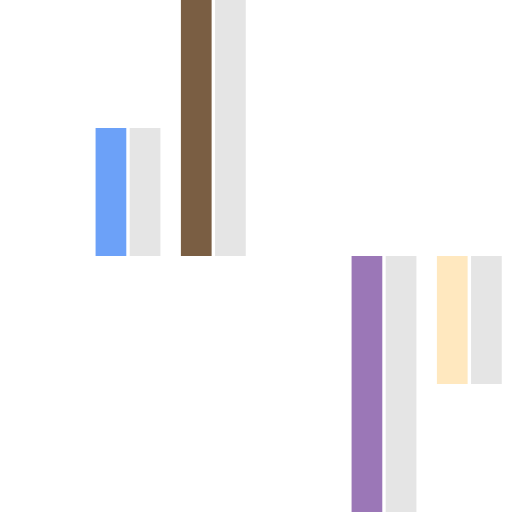
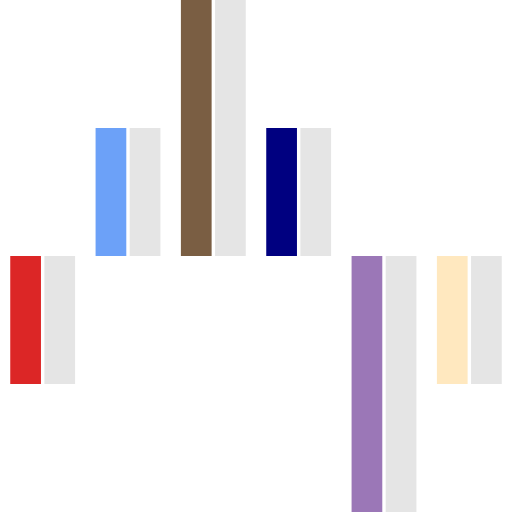
fix(utils): remove all instances of lookbehind (#41)

Changed region(s): [[0.5, 0.25, 0.6562, 0.5], [0.0, 0.5, 0.1562, 0.75]]

diff --git a/src/__tests__/parser.spec.ts b/src/__tests__/parser.spec.ts
@@ -7,7 +7,7 @@ const parser = new TailwindColorsParser(tailwindConfig)
 describe("Parser", () => {
   test.each`
     color                          | output
-    ${"transparent"}               | ${"rgb(0 0 0 / 0)"}
+    ${"transparent"}               | ${"transparent"}
     ${"black"}                     | ${"#000"}
     ${"slate-700"}                 | ${"#334155"}
     ${"main"}                      | ${"#5a65f6"}
@@ -21,10 +21,10 @@ describe("Parser", () => {
 describe("Validator is working with configured colors only (strict)", () => {
   test.each`
     color            | output   | status
-    ${"transparent"} | ${true}  | ${"valid"}
     ${"black"}       | ${true}  | ${"valid"}
     ${"yellow-50"}   | ${true}  | ${"valid"}
     ${"red-100"}     | ${true}  | ${"valid"}
+    ${"transparent"} | ${false} | ${"skipped"}
     ${"orange-90"}   | ${false} | ${"invalid"}
     ${"pink-250"}    | ${false} | ${"invalid"}
     ${"indigo-0"}    | ${false} | ${"invalid"}
@@ -41,29 +41,31 @@ describe("Validator is working (non-strict)", () => {
 
   test.each`
     color            | output   | status
-    ${"transparent"} | ${true}  | ${"valid"}
     ${"black"}       | ${true}  | ${"valid"}
+    ${"transparent"} | ${false} | ${"skipped"}
     ${""}            | ${false} | ${"invalid"}
   `("if `$color` is $status", ({ color, output }) => {
     expect(parser.isParsable(color)).toBe(output)
   })
 
   test.each`
-    value             | output   | status
-    ${"stone-50"}     | ${true}  | ${"be"}
-    ${"stone-50/30"}  | ${true}  | ${"be"}
-    ${"green-900"}    | ${true}  | ${"be"}
-    ${" "}            | ${false} | ${"not be"}
-    ${"bisque"}       | ${false} | ${"not be"}
-    ${"#c08240"}      | ${false} | ${"not be"}
-    ${"#c0824066"}    | ${false} | ${"not be"}
-    ${"emerald-"}     | ${false} | ${"not be"}
-    ${"purple-cyan"}  | ${false} | ${"not be"}
-    ${"slate-0"}      | ${false} | ${"not be"}
-    ${"#cyan-900"}    | ${false} | ${"not be"}
-    ${"#cyan-900/55"} | ${false} | ${"not be"}
-    ${"b69576"}       | ${false} | ${"not be"}
-    ${"b69576/"}      | ${false} | ${"not be"}
+    value              | output   | status
+    ${"stone-50"}      | ${true}  | ${"be"}
+    ${"stone-50/30"}   | ${true}  | ${"be"}
+    ${"green-900"}     | ${true}  | ${"be"}
+    ${" "}             | ${false} | ${"not be"}
+    ${"bisque"}        | ${false} | ${"not be"}
+    ${"#c08240"}       | ${false} | ${"not be"}
+    ${"#c0824066"}     | ${false} | ${"not be"}
+    ${"emerald-"}      | ${false} | ${"not be"}
+    ${"purple-cyan"}   | ${false} | ${"not be"}
+    ${"slate-0"}       | ${false} | ${"not be"}
+    ${"#cyan-900"}     | ${false} | ${"not be"}
+    ${"#cyan-900/55"}  | ${false} | ${"not be"}
+    ${"##cyan-900/55"} | ${false} | ${"not be"}
+    ${"b69576"}        | ${false} | ${"not be"}
+    ${"##b69576"}      | ${false} | ${"not be"}
+    ${"b69576/"}       | ${false} | ${"not be"}
   `("if `$value` should $status parsed", ({ value, output }) => {
     expect(parser.isParsable(value)).toBe(output)
   })

diff --git a/src/parser.ts b/src/parser.ts
@@ -34,18 +34,18 @@ class TailwindColorsParser {
       return value.map((v) => this.parse(v))
     }
 
+    if (!utils.isParsableString(value)) return value
+
     if (utils.hasValidAlpha(value)) {
       const [color, alpha] = value.split("/")
 
       return formatColor({
-        ...parseColor(this.colorPalette[color] ?? color),
+        ...parseColor(this.colorPalette[color.trim()] ?? color),
         alpha: Number.parseInt(alpha, 10) / 100,
       })
     }
 
-    return value === "transparent"
-      ? formatColor(parseColor(value))
-      : this.colorPalette[value] ?? value
+    return this.colorPalette[value.trim()] ?? formatColor(parseColor(value))
   }
 
   /**
@@ -59,8 +59,8 @@ class TailwindColorsParser {
     if (!value) return false
 
     if (!strict) {
-      // Since some colors are stored in arrays, assuming the values
-      // in the array are valid, the array itself is valid
+      // Since some colors are stored in arrays, assuming all values
+      // in the array are strings, the array itself is valid
       if (utils.isValidArray(value)) return true
 
       if (!utils.isParsableString(value)) return false
@@ -74,11 +74,15 @@ class TailwindColorsParser {
       }
 
       // Ignore hex and named colors without a valid alpha
-      return Object.hasOwn(this.colorPalette, value) || utils.shouldParse(value)
+      return (
+        Object.hasOwn(this.colorPalette, value) || utils.hasValidAlpha(value)
+      )
     }
 
     // Strictly from the specified config
-    return typeof value === "string" && Object.hasOwn(this.colorPalette, value)
+    return (
+      utils.isParsableString(value) && Object.hasOwn(this.colorPalette, value)
+    )
   }
 }
 

diff --git a/src/utils.ts b/src/utils.ts
@@ -2,18 +2,18 @@ import Colors from "color-name"
 
 import type { NamedColor } from "./types"
 
-const VALID_HEX = /#([\da-f]{6})([\da-f]{2})?(?!\/(?!\S))/i
-const VALID_TW_COLOR_CLASS = /(?<![#-]+)\b[a-z]+\b-\d{2,3}(?![\w-]+)/i
+const VALID_HEX = /^#([\da-f]{3}|[\da-f]{6})([\da-f]{2})?/i
+const VALID_TW_COLOR_CLASS = /^[a-z]+-\d{2,3}(?![\w-]+)/i
 const VALID_COLOR_FORM = `${VALID_HEX.source}|${VALID_TW_COLOR_CLASS.source}`
 const VALID_ALPHA = /\/(?=(\b([1-9]|[1-9]\d|100)\b))/i
-
-export const isValidArray = (value: unknown): value is string[] =>
-  Array.isArray(value) && value.every((v) => typeof v === "string")
 
 export const isParsableString = (value: unknown): value is string =>
   typeof value === "string" &&
   // No need to parse these as chart.js can readily accept it
-  !/rgba?|hsla?/i.test(value)
+  !/rgba?|hsla?|transparent/i.test(value)
+
+export const isValidArray = (value: unknown): value is string[] =>
+  Array.isArray(value) && value.every((v) => typeof v === "string")
 
 export const isHex = (value: string): boolean => VALID_HEX.test(value)
 export const isNamedColor = (value: string): value is NamedColor =>
@@ -27,6 +27,3 @@ export const hasValidAlpha = (value: string): boolean =>
   // TODO There should be room for improvement here
   (isNamedColor(value.split("/")[0]) && VALID_ALPHA.test(value)) || // named colors
   new RegExp(`(?:${VALID_COLOR_FORM})${VALID_ALPHA.source}`).test(value)
-
-export const shouldParse = (value: string): boolean =>
-  hasValidAlpha(value) || VALID_TW_COLOR_CLASS.test(value)

diff --git a/src/color.ts b/src/color.ts
@@ -1,7 +1,7 @@
 // Color utilities taken from the CSS framework tailwindcss, which is
 // Copyright (c) Tailwind Labs, Inc. (https://tailwindcss.com/)
 // and used under the terms of the MIT license
-// @see https://github.com/tailwindlabs/tailwindcss/blob/master/LICENSE
+// @see https://github.com/tailwindlabs/tailwindcss/blob/main/LICENSE
 
 import type { RecursiveKeyValuePair } from "tailwindcss/types/config"
 
@@ -15,7 +15,7 @@ import { isNamedColor } from "./utils"
 const HEX = /^#([\da-f]{2})([\da-f]{2})([\da-f]{2})([\da-f]{2})?$/i
 const SHORT_HEX = /^#([\da-f])([\da-f])([\da-f])([\da-f])?$/i
 
-// @see https://github.com/tailwindlabs/tailwindcss/blob/master/src/util/flattenColorPalette.js
+// @see https://github.com/tailwindlabs/tailwindcss/blob/main/src/util/flattenColorPalette.js
 export const flattenColorPalette = (
   colors: RecursiveKeyValuePair
 ): TailwindColorGroup => {
@@ -32,7 +32,7 @@ export const flattenColorPalette = (
   return result
 }
 
-// @see https://github.com/tailwindlabs/tailwindcss/blob/master/src/util/color.js
+// @see https://github.com/tailwindlabs/tailwindcss/blob/main/src/util/color.js
 export function parseColor(value: string): Color {
   value = value.trim()
 

diff --git a/src/__tests__/utils.spec.ts b/src/__tests__/utils.spec.ts
@@ -12,6 +12,7 @@ describe("Alpha validator is working", () => {
     ${"green-900/50"} | ${true}  | ${"valid"}
     ${"red-100/100"}  | ${true}  | ${"valid"}
     ${"aqua/75"}      | ${true}  | ${"valid"}
+    ${"bisque/"}      | ${false} | ${"invalid"}
     ${"lime-600/200"} | ${false} | ${"invalid"}
     ${"orange-200/"}  | ${false} | ${"invalid"}
     ${"pink-300/0"}   | ${false} | ${"invalid"}
@@ -27,7 +28,10 @@ describe("Alpha validator is working with hex values", () => {
   test.each`
     color            | output   | status
     ${"#c08240/20"}  | ${true}  | ${"valid"}
+    ${"#bc4/20"}     | ${true}  | ${"valid"}
     ${"#a42c20/200"} | ${false} | ${"invalid"}
+    ${"#bc4/200"}    | ${false} | ${"invalid"}
+    ${"##a42c20/70"} | ${false} | ${"invalid"}
     ${"#a42c20/0"}   | ${false} | ${"invalid"}
     ${"b69576/45"}   | ${false} | ${"invalid"}
     ${"#b69576/"}    | ${false} | ${"invalid"}

diff --git a/src/__tests__/fixtures/indexable/bar.js b/src/__tests__/fixtures/indexable/bar.js
@@ -6,7 +6,7 @@ module.exports = {
       labels: [0, 1, 2, 3, 4, 5],
       datasets: [
         {
-          data: [0, 5, 10, null, -10, -5],
+          data: [-5, 5, 10, 5, -10, -5],
           backgroundColor: [
             "red-600",
             "#3b82f6/75",
@@ -17,7 +17,7 @@ module.exports = {
           ],
         },
         {
-          data: [0, 5, 10, null, -10, -5],
+          data: [-5, 5, 10, 5, -10, -5],
         },
       ],
     },

diff --git a/src/__tests__/color.spec.ts b/src/__tests__/color.spec.ts
@@ -1,7 +1,7 @@
 // Color utilities tests taken from the CSS framework tailwindcss, which is
 // Copyright (c) Tailwind Labs, Inc. (https://tailwindcss.com/)
 // and used under the terms of the MIT license
-// @see https://github.com/tailwindlabs/tailwindcss/blob/master/LICENSE
+// @see https://github.com/tailwindlabs/tailwindcss/blob/main/LICENSE
 
 import type { Color } from "../types"
 

diff --git a/rollup.config.ts b/rollup.config.ts
@@ -13,7 +13,7 @@ const banner = `/*!
  * ${pkg.name} v${pkg.version}
  * ${pkg.homepage}
  * (c) ${new Date().getFullYear()} ${author} and Contributors
- * Released under the MIT License
+ * Released under the ${pkg.license} License
  */`
 
 const external: ExternalOption = [

diff --git a/src/__tests__/plugin.spec.ts b/src/__tests__/plugin.spec.ts
@@ -7,6 +7,8 @@ const plugin = twColorsPlugin(twConfig)
 
 describe("Plugin works as expected", () => {
   describe.each([
+    "indexable",
+    "scriptable",
     "hoverBorderColor",
     "hoverBackgroundColor",
     "pointBorderColor",

diff --git a/CONTRIBUTING.md b/CONTRIBUTING.md
@@ -29,7 +29,7 @@ Clear, concise pull requests are excellent at continuing the project's community
 - Please create an issue first:
   - For bugs, we can discuss the fixing approach
   - For enhancements, we can discuss if it is within the project scope and avoid duplicate effort
-- Please only make changes to the files in [`/src`](https://github.com/decanTyme/chartjs-plugin-tailwindcss-colors/tree/main/src) and [`/test`](https://github.com/decanTyme/chartjs-plugin-tailwindcss-colors/tree/main/test)
+- Please only make changes to the files in [`/src`](https://github.com/decanTyme/chartjs-plugin-tailwindcss-colors/tree/main/src) and [`/src/__tests__`](https://github.com/decanTyme/chartjs-plugin-tailwindcss-colors/tree/main/src/__tests__)
 - If adding new functionality, please also include any relevant changes to the documentation
 - Please make sure to run `yarn stylecheck` before submitting a PR
 - Please make sure your commits follow the [Conventional Commits](https://www.conventionalcommits.org/en/v1.0.0/) specification
